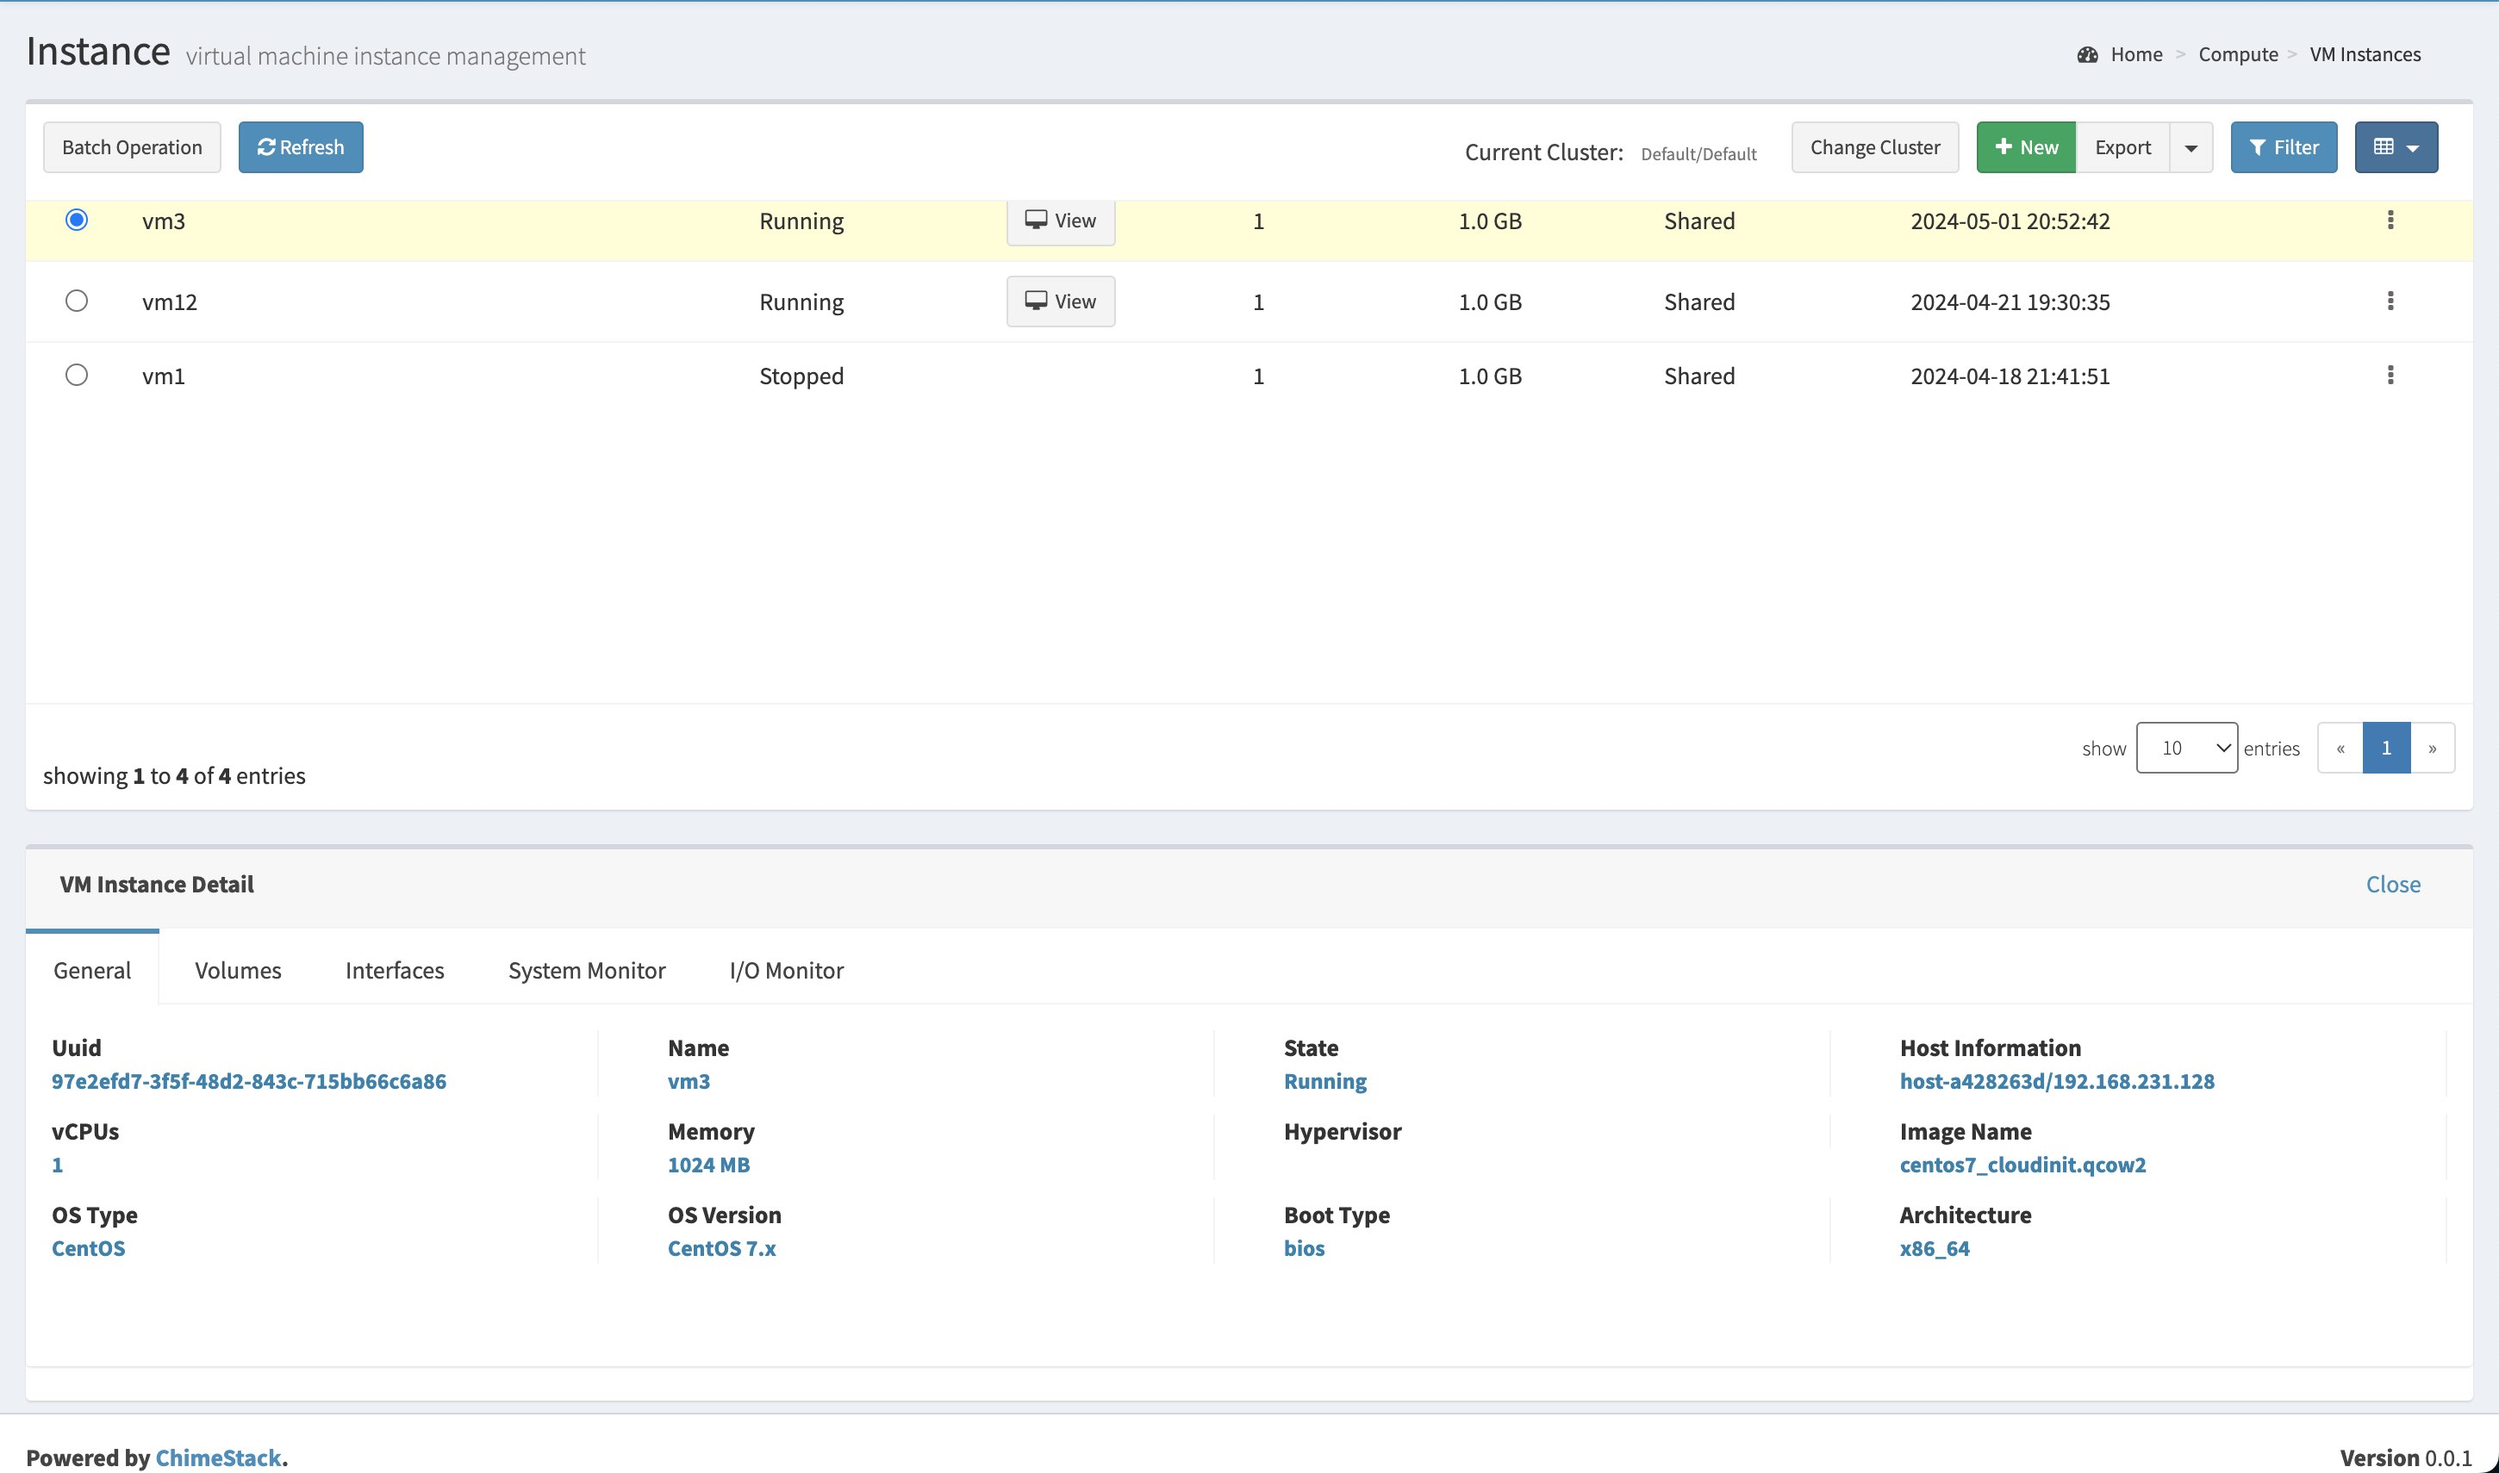
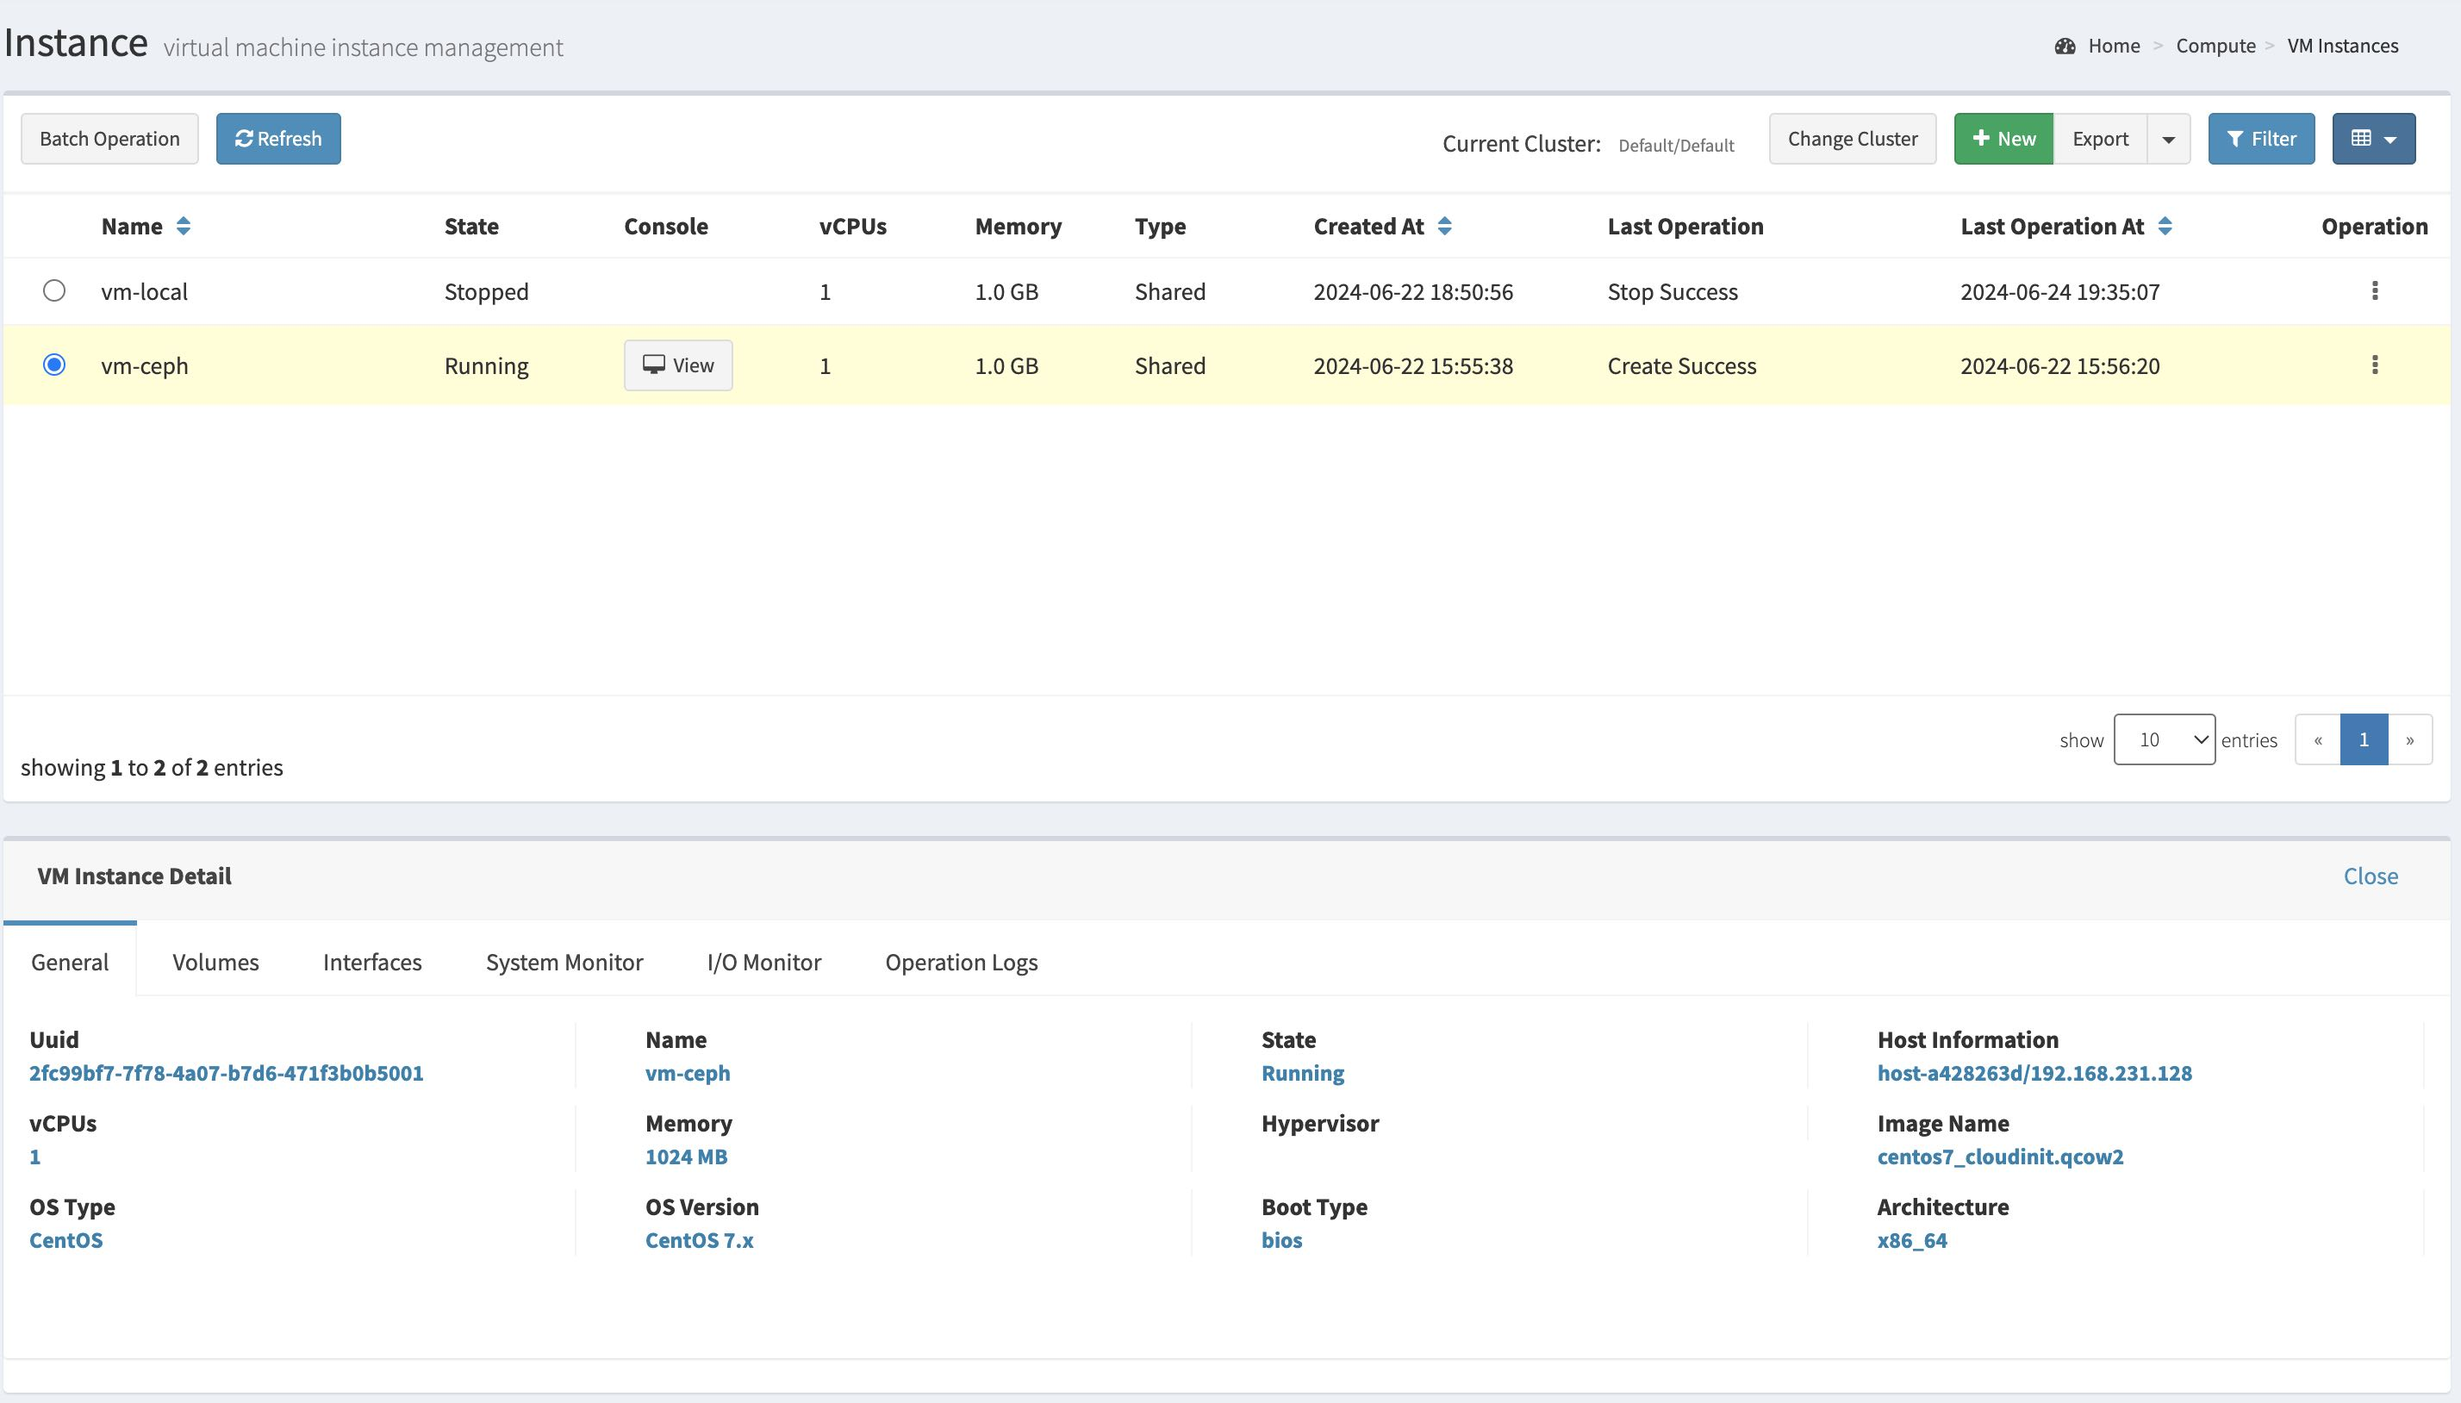
update

diff --git a/content/en/docs/Usage/WebUI/Compute/vm/_index.md b/content/en/docs/Usage/WebUI/Compute/vm/_index.md
@@ -7,15 +7,16 @@ weight: 2
 ## Check Virtual Machines
 
 * Check virutal machine list：
-  * To change current cluster, click **Change Cluster** and then select **Zone** and **Cluster**
-  * Click **filter** button, input or select filter conditions, check the filtered virtual machine list
-  * Click **columns** button，select the columns to be displayed in the list，by default it shows all columns
+  * To change current cluster, click "**Change Cluster**" and then select **Zone** and **Cluster**
+  * Click "**filter**" button, input or select filter conditions, check the filtered virtual machine list
+  * Click "**columns**" button，select the columns to be displayed in the list，by default it shows all columns
 * To view a virtual machine's details, select the virutal machine in the list，detailed information will be showed in the below panel.
   * General information tab: show the general information of the virtual machine
   * Volumes information tab: list the attached volumes' information of the virtual machine 
   * Network interfaces information tab: list the attached network interfaces' information of the virtual machine 
-  * System monitor tab: Show the virtual machine's CPU and memory usage percentage in charts 
-  * I/O monitor tab: Show the virtual machine's overall statistics of its disk I/O and network I/O in charts
+  * System monitor tab: show the virtual machine's CPU and memory usage percentage in charts 
+  * I/O monitor tab: show the virtual machine's overall statistics of its disk I/O and network I/O in charts
+  * Operation log tab: show the operation logs of the virtual machine. 
 
 {{% imgproc vmlist Fit "1000x1000" %}}
 virtual machine's list and details 
@@ -37,6 +38,10 @@ virtual machine's CPU and memory usage percentage
 virtual machine's overall statistics of disk I/O and network I/O
 {{% /imgproc %}}
 
+{{% imgproc vmlogs Fit "1000x500" %}}
+virtual machine's operation logs
+{{% /imgproc %}}
+
 ## Virtual Machine Management
 
 ### Create New Virtual Machine
@@ -54,15 +59,15 @@ virtual machine's overall statistics of disk I/O and network I/O
 {{% /imgproc %}}
 
 * Input following items in the "Login" tab:
-  * (Optional) the password for the root user，**Note: if the guest OS doesn't have the cloud-init installed, the password will not be taken into effect**。
+  * (Optional) the password for the root user，**Note: If the cloud-init is not installed on the guest operating system, this setting will not take effect.**。
   * (Optional) the password for the vnc login
 {{% imgproc newvmlogin Fit "1000x600" %}}
 {{% /imgproc %}}
 
 * Input or choose following items in the "Add Virtual Hardware" tab:
   * CDRom device, if set the CDRom as boot device, so the system will boot from this CDRom 
-  * Up to 32 data volumes can be added to the virtual machine 
-  * Up to 8 network interfaces can be added to the virtual machine
+  * Up to 128 data volumes can be added to the virtual machine 
+  * Up to 16 network interfaces can be added to the virtual machine
 {{% imgproc newvmdevices Fit "1000x1500" %}}
 {{% /imgproc %}}
 
@@ -79,6 +84,15 @@ virtual machine's overall statistics of disk I/O and network I/O
   
 {{% alert title="Warning" color="warning" %}}
 The deleted virtual machines can not be restored anymore, and the attached resources of the virtual machines can not be restored either
+{{% /alert %}}
+
+* **Migrate**: Migrate the virtual machine to another node (including online and offline migration). Before triggering a migration, you can specify a target node to migrate or not specify a node to let the system automatically schedule the most suitable node(based on the node’s resource allocation data). If the virtual machine contains local disks, you must turn on the “Migrate local hard disk” option there, otherwise the migration will fail.
+
+{{% imgproc vm_migrate Fit "800x300" %}}
+{{% /imgproc %}}
+
+{{% alert title="Warning" color="warning" %}}
+Migrating a virtual machine with local disks, all disk data will be copied to the target node,  it will consume plenty of system and network resources and take much longer to finish. Hence it is not recommended to migrate virtual machines that attach local disks.
 {{% /alert %}}
 
 ### Batch Operation

diff --git a/content/en/docs/Usage/WebUI/IndexPage/admin/_index.md b/content/en/docs/Usage/WebUI/IndexPage/admin/_index.md
@@ -8,35 +8,35 @@ weight: 3
 {{% /imgproc %}}
 
 * Login Information
-  * current user name
-  * login datetime, system datetime
+  * Current user name
+  * Login datetime, system datetime
 * Unread Alert Summary 
   * Categorize the alerts by their severity as "Urgent","Severe" and "Warn"
   * Show the top 3 alert items sorted by severity and their unread count 
   * Click the "View All" link to enter the alert list view page 
 * Platform Statistical Summary 
-  * total number of available zones
-  * total number of clusters
-  * total number of nodes
-  * total number of storage pools
-  * total number of layer-2 networks
-  * total number of image buckets
+  * Total number of available zones
+  * Total number of clusters
+  * Total number of nodes
+  * Total number of storage pools
+  * Total number of layer-2 networks
+  * Total number of image buckets
 * Virtualized Resource Statistical Summary
-  * virtual machines' summary
-  * volumes' summary
-  * elastic network interfaces' summary
+  * Virtual machines' summary
+  * Volumes' summary
+  * Elastic network interfaces' summary
 * Physical Resource Allocation Statistical Summary 
   * CPU allocation's summary
-  * memory allocation's summary
-  * storage usage's summary
-  * image bucket usage's summary
+  * Memory allocation's summary
+  * Storage usage's summary
+  * Image bucket usage's summary
 * Physical Node's Average Usage Statistical Summary
   * CPU's average usage
-  * memory's average usage
-  * disk I/O's average usage
-  * network I/O's average usage
+  * Memory's average usage
+  * Disk I/O's average usage
+  * Network I/O's average usage
 
 
 {{% pageinfo color="primary" %}}
-you can choose different time ranges to show the statistics in the page
+You can choose different time ranges to display the statistical data in the page
 {{% /pageinfo %}}

diff --git a/content/en/docs/Usage/WebUI/IndexPage/user/_index.md b/content/en/docs/Usage/WebUI/IndexPage/user/_index.md
@@ -8,21 +8,21 @@ weight: 2
 {{% /imgproc %}}
 
 * Login Information
-  * current user name
-  * login datetime, system datetime
+  * Current user name
+  * Login datetime, system datetime
 * Unread Alert Summary 
   * Categorize the alerts by their severity as "Urgent","Severe" and "Warn"
   * Show the top 3 alert items sorted by severity and their unread count 
   * Click the "View All" link to enter the alert list view page 
 * Virtualized Resource Statistical Summary
-  * virtual machines' summary
-  * volumes' summary
-  * elastic network interfaces' summary
+  * Virtual machines' usage summary
+  * Volumes' usage summary
+  * Elastic network interfaces' usage summary
 * Virtual Machines' Average Usage Statistical Summary
   * CPU's average usage
-  * memory's average usage
+  * Memory's average usage
 
 
 {{% pageinfo color="primary" %}}
-you can choose different time ranges to show the statistics in the page
+You can choose different time ranges to display the statistical data in the page
 {{% /pageinfo %}}

diff --git a/content/zh/docs/Usage/WebUI/Compute/vm/_index.md b/content/zh/docs/Usage/WebUI/Compute/vm/_index.md
@@ -7,7 +7,7 @@ weight: 2
 ## 查看虚拟机
 
 * 查看虚拟机列表：
-  * 选择当前的**可用区**和**集群**，查看当前集群下所有的虚拟机
+  * 选择当前的"**可用区**"和"**集群**"，查看当前集群下所有的虚拟机
   * 点击"**筛选**"按钮，输入过滤条件，查询过滤后的虚拟机列表
   * 点击"**列过滤**"按钮，过滤需要显示在列表也的信息，默认全部显示
 * 查看虚拟机详情：在列表中选中某个虚拟机，显示虚拟机详情信息
@@ -66,8 +66,8 @@ weight: 2
 
 * 在"添加虚拟设备"页输入或选择:
   * CDRom设备，如果选择"从CDRom"启动，则该CDRom作为引导盘启动
-  * 可以添加最多32块数据云盘
-  * 可以添加最多8个网卡
+  * 可以添加最多128块数据云盘
+  * 可以添加最多16个网卡
 {{% imgproc newvmdevices Fit "1000x1500" %}}
 {{% /imgproc %}}
 
